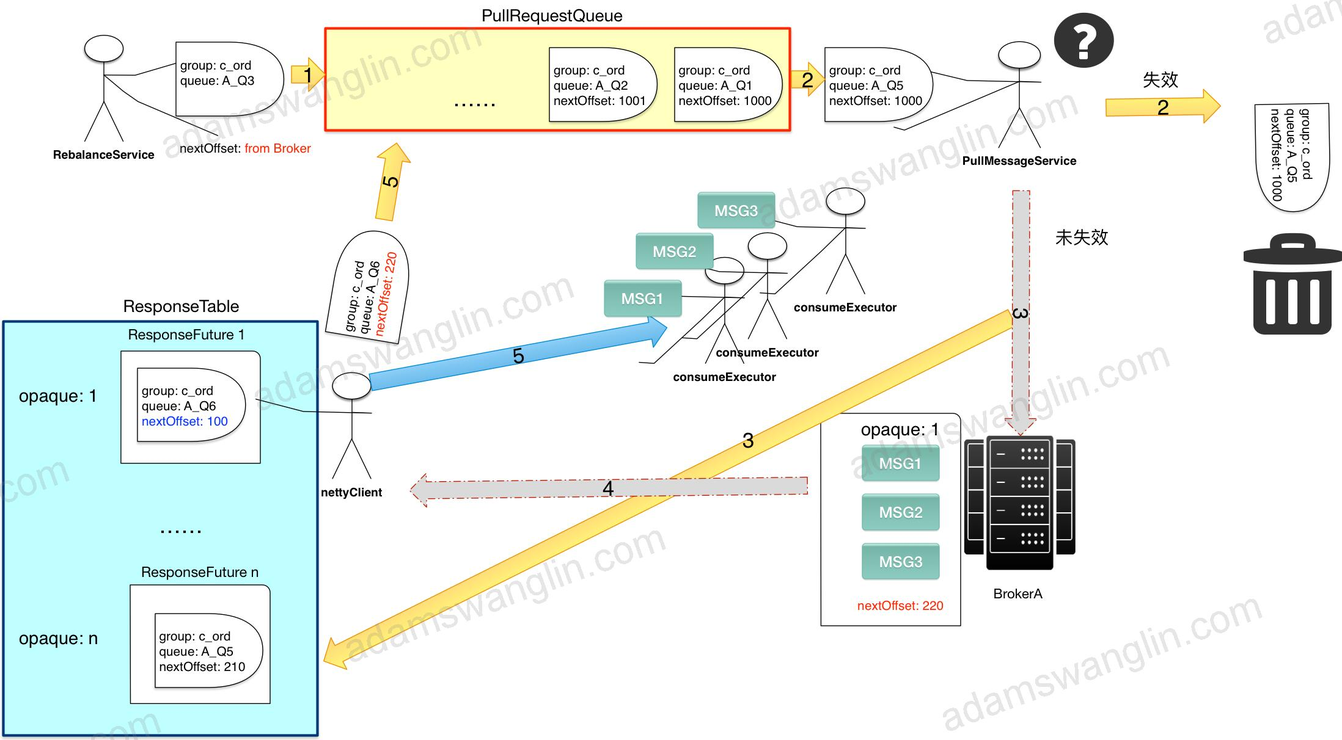
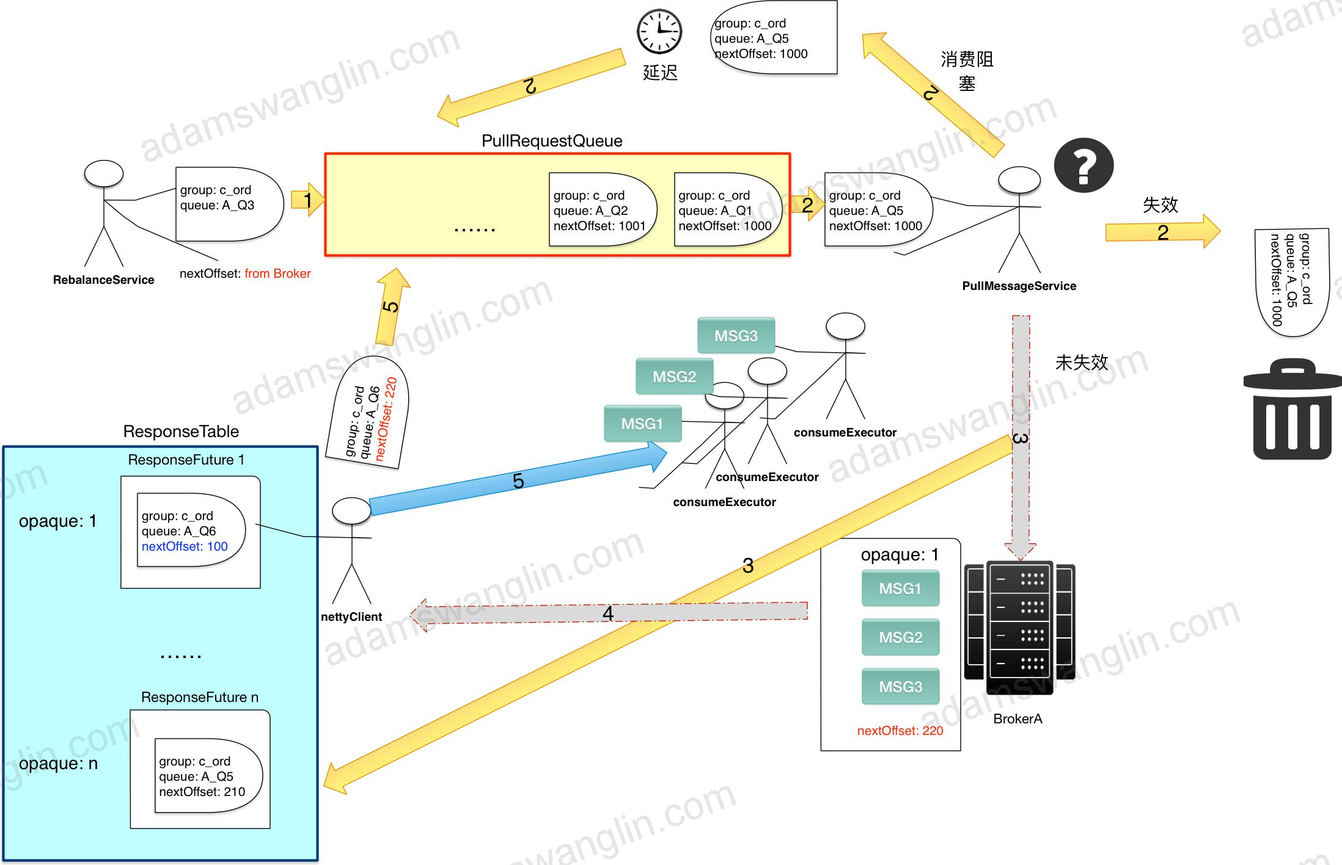
Site updated: 2018-08-27 20:26:34

diff --git a/rocketmq/rocketmq-consumer/index.html b/rocketmq/rocketmq-consumer/index.html
@@ -145,6 +145,13 @@
 
                         
                         <li>
+                            <a href="/about/">About</a>
+                        </li>
+                        
+                    
+
+                        
+                        <li>
                             <a href="/categories/">categories</a>
                         </li>
                         
@@ -153,13 +160,6 @@
                         
                         <li>
                             <a href="/archive/">Archives</a>
-                        </li>
-                        
-                    
-
-                        
-                        <li>
-                            <a href="/about/">About</a>
                         </li>
                         
                     
@@ -273,6 +273,7 @@
 <p>广播模式和集群模式只针对单个消费组；不同消费组之间的消息订阅是互不影响的。</p>
 </blockquote>
 <h3 id="offset管理">Offset管理</h3>
+<h3 id="whyoffset">WhyOffset</h3>
 <p>为了确定消息是否到达，现有消息队列实现里都有ack机制。</p>
 <p>例如在ActiveMQ里，一条消息从producer端发出之后，一旦被consumer消费，consumer会返回ACK，broker端会删除这条已消费的消息。这样每一条消息消费都要传送一个ACK消息，Broker端也要根据ACK做相应操作。</p>
 <p>RocketMQ用Offset机制来实现ACK，它类似一种批量的ACK：</p>
@@ -289,6 +290,28 @@
 </ul>
 <p>RocketMQ这样做之后提升了效率：Offset更新频率相比单条更新小，Broker端只用存储某个消费组对某个Queue的消费进度而不用在每个消息上存某个消费组是否消费了该消息。</p>
 <p>但同时也带来了一个问题：更大几率的重复消费。消费组消费了offset =2到offset=10的消息，但是offset=1的消息消费的比较慢；如果更新offset=10可能会导致offset=1的消息未成功消费Broker却认为成功，所以RocketMQ的做法是消费端更新的Offset都是未消费消息的最小offset；如果这时候消费端down机，别的消费组消费的时候会从offset=1的消息开始拉取消费，这样offset=2和offset=10的消息就会重复消费。所以RocketMQ不保证消息不重复，当然这只是造成消息重复消费的一个原因。</p>
+<h3 id="最新订阅的topic">最新订阅的TOPIC</h3>
+<p>消费组新增订阅，理论上应该是从最新的消息开始消费，历史消息理论上不会消费；但是在测试环境出现一个问题：新增的消费组消费了几个月之前的消息。为此源码上研究了下：</p>
+<ol>
+<li>消费组配置</li>
+</ol>
+<figure class="highlight plain"><table><tr><td class="gutter"><pre><span class="line">1</span><br><span class="line">2</span><br><span class="line">3</span><br></pre></td><td class="code"><pre><span class="line">CONSUME_FROM_LAST_OFFSET//从最后面开始消费</span><br><span class="line">CONSUME_FROM_FIRST_OFFSET//从头开始消费</span><br><span class="line">CONSUME_FROM_TIMESTAMP//从特定时间点开始消费</span><br></pre></td></tr></table></figure>
+<p>其中默认是<code>CONSUME_FROM_LAST_OFFSET</code>，字面意思是从最后面开始消费。</p>
+<ol start="2">
+<li>client端计算消费节点代码：</li>
+</ol>
+<figure class="highlight java"><table><tr><td class="gutter"><pre><span class="line">1</span><br><span class="line">2</span><br><span class="line">3</span><br><span class="line">4</span><br><span class="line">5</span><br><span class="line">6</span><br><span class="line">7</span><br><span class="line">8</span><br><span class="line">9</span><br><span class="line">10</span><br><span class="line">11</span><br><span class="line">12</span><br><span class="line">13</span><br><span class="line">14</span><br><span class="line">15</span><br><span class="line">16</span><br><span class="line">17</span><br><span class="line">18</span><br><span class="line">19</span><br><span class="line">20</span><br><span class="line">21</span><br><span class="line">22</span><br></pre></td><td class="code"><pre><span class="line"><span class="comment">//RebalancePushImpl.java -&gt; computePullFromWhere</span></span><br><span class="line"><span class="keyword">case</span> CONSUME_FROM_LAST_OFFSET: &#123;</span><br><span class="line">  <span class="keyword">long</span> lastOffset = offsetStore.readOffset(mq, ReadOffsetType.READ_FROM_STORE);</span><br><span class="line">  <span class="keyword">if</span> (lastOffset &gt;= <span class="number">0</span>) &#123;</span><br><span class="line">    result = lastOffset;</span><br><span class="line">  &#125;</span><br><span class="line">  <span class="comment">// First start,no offset</span></span><br><span class="line">  <span class="keyword">else</span> <span class="keyword">if</span> (-<span class="number">1</span> == lastOffset) &#123;</span><br><span class="line">    <span class="keyword">if</span> (mq.getTopic().startsWith(MixAll.RETRY_GROUP_TOPIC_PREFIX)) &#123;</span><br><span class="line">      result = <span class="number">0L</span>;</span><br><span class="line">    &#125; <span class="keyword">else</span> &#123;</span><br><span class="line">      <span class="keyword">try</span> &#123;</span><br><span class="line">        result = <span class="keyword">this</span>.mQClientFactory.getMQAdminImpl().maxOffset(mq);</span><br><span class="line">      &#125; <span class="keyword">catch</span> (MQClientException e) &#123;</span><br><span class="line">        result = -<span class="number">1</span>;</span><br><span class="line">      &#125;</span><br><span class="line">    &#125;</span><br><span class="line">  &#125; <span class="keyword">else</span> &#123;</span><br><span class="line">    result = -<span class="number">1</span>;</span><br><span class="line">  &#125;</span><br><span class="line">  <span class="keyword">break</span>;</span><br><span class="line">&#125;</span><br></pre></td></tr></table></figure>
+<p>0表示从头开始消费，-1表示从最后面开始消费。</p>
+<ol start="3">
+<li><code>offsetStore.readOffset(mq, ReadOffsetType.READ_FROM_STORE);</code></li>
+</ol>
+<figure class="highlight java"><table><tr><td class="gutter"><pre><span class="line">1</span><br><span class="line">2</span><br><span class="line">3</span><br><span class="line">4</span><br><span class="line">5</span><br><span class="line">6</span><br><span class="line">7</span><br><span class="line">8</span><br><span class="line">9</span><br><span class="line">10</span><br><span class="line">11</span><br><span class="line">12</span><br><span class="line">13</span><br><span class="line">14</span><br><span class="line">15</span><br><span class="line">16</span><br><span class="line">17</span><br></pre></td><td class="code"><pre><span class="line"><span class="keyword">case</span> READ_FROM_STORE: &#123;</span><br><span class="line">  <span class="keyword">try</span> &#123;</span><br><span class="line">    <span class="keyword">long</span> brokerOffset = <span class="keyword">this</span>.fetchConsumeOffsetFromBroker(mq);</span><br><span class="line">    AtomicLong offset = <span class="keyword">new</span> AtomicLong(brokerOffset);</span><br><span class="line">    <span class="keyword">this</span>.updateOffset(mq, offset.get(), <span class="keyword">false</span>);</span><br><span class="line">    <span class="keyword">return</span> brokerOffset;</span><br><span class="line">  &#125;</span><br><span class="line">  <span class="comment">// No offset in broker</span></span><br><span class="line">  <span class="keyword">catch</span> (MQBrokerException e) &#123;</span><br><span class="line">    <span class="keyword">return</span> -<span class="number">1</span>;</span><br><span class="line">  &#125;</span><br><span class="line">  <span class="comment">//Other exceptions</span></span><br><span class="line">  <span class="keyword">catch</span> (Exception e) &#123;</span><br><span class="line">    log.warn(<span class="string">"fetchConsumeOffsetFromBroker exception, "</span> + mq, e);</span><br><span class="line">    <span class="keyword">return</span> -<span class="number">2</span>;</span><br><span class="line">  &#125;</span><br><span class="line">&#125;</span><br></pre></td></tr></table></figure>
+<p>消费节点是从broker端取的。</p>
+<ol start="4">
+<li>Broker端处理查询offset请求代码：</li>
+</ol>
+<figure class="highlight java"><table><tr><td class="gutter"><pre><span class="line">1</span><br><span class="line">2</span><br><span class="line">3</span><br><span class="line">4</span><br><span class="line">5</span><br><span class="line">6</span><br><span class="line">7</span><br><span class="line">8</span><br><span class="line">9</span><br><span class="line">10</span><br><span class="line">11</span><br><span class="line">12</span><br><span class="line">13</span><br><span class="line">14</span><br><span class="line">15</span><br><span class="line">16</span><br><span class="line">17</span><br><span class="line">18</span><br><span class="line">19</span><br><span class="line">20</span><br><span class="line">21</span><br><span class="line">22</span><br><span class="line">23</span><br><span class="line">24</span><br><span class="line">25</span><br><span class="line">26</span><br><span class="line">27</span><br><span class="line">28</span><br></pre></td><td class="code"><pre><span class="line"><span class="comment">//ConsumerManageProcessor.queryConsumerOffset()</span></span><br><span class="line"><span class="keyword">long</span> offset =</span><br><span class="line">  <span class="keyword">this</span>.brokerController.getConsumerOffsetManager().queryOffset(</span><br><span class="line">  requestHeader.getConsumerGroup(), requestHeader.getTopic(), requestHeader.getQueueId());</span><br><span class="line"></span><br><span class="line"><span class="comment">//存在的消费组</span></span><br><span class="line"><span class="keyword">if</span> (offset &gt;= <span class="number">0</span>) &#123;</span><br><span class="line">  responseHeader.setOffset(offset);</span><br><span class="line">  response.setCode(ResponseCode.SUCCESS);</span><br><span class="line">  response.setRemark(<span class="keyword">null</span>);</span><br><span class="line">&#125; <span class="keyword">else</span> &#123;</span><br><span class="line">  <span class="comment">//消费组之前不存在</span></span><br><span class="line">  <span class="keyword">long</span> minOffset =</span><br><span class="line">    <span class="keyword">this</span>.brokerController.getMessageStore().getMinOffsetInQueue(requestHeader.getTopic(),</span><br><span class="line">                                                                requestHeader.getQueueId());</span><br><span class="line">  <span class="keyword">if</span> (minOffset &lt;= <span class="number">0</span></span><br><span class="line">      &amp;&amp; !<span class="keyword">this</span>.brokerController.getMessageStore().checkInDiskByConsumeOffset(</span><br><span class="line">        requestHeader.getTopic(), requestHeader.getQueueId(), <span class="number">0</span>)) &#123;</span><br><span class="line">    <span class="comment">//minOffsetInQueue是0并且offset=0的数据commitlog数据没有刷回磁盘还在内存里（queue新增不久/测试环境数据量少）</span></span><br><span class="line">    responseHeader.setOffset(<span class="number">0L</span>);</span><br><span class="line">    response.setCode(ResponseCode.SUCCESS);</span><br><span class="line">    response.setRemark(<span class="keyword">null</span>);</span><br><span class="line">  &#125; <span class="keyword">else</span> &#123;</span><br><span class="line">    <span class="comment">//不符合返回error怎么处理？</span></span><br><span class="line">    response.setCode(ResponseCode.QUERY_NOT_FOUND);</span><br><span class="line">    response.setRemark(<span class="string">"Not found, V3_0_6_SNAPSHOT maybe this group consumer boot first"</span>);</span><br><span class="line">  &#125;</span><br><span class="line">&#125;</span><br></pre></td></tr></table></figure>
+<p>至此，问题明了了，由于测试环境数据量小：minoffset是0，而且3个月前的数据并未刷回磁盘，所以RocketMQ从头开始消费了。</p>
 <h2 id="consumer启动">Consumer启动</h2>
 <h3 id="几个重要的类关系">几个重要的类关系</h3>
 <p><img src="clientRel.png" alt="类关系"></p>
@@ -358,6 +381,7 @@
 <ul>
 <li>如果发现有新订阅的queue，也会为每个新增订阅的queue生成一个PullRequest，放入PullRequestQueue中；其中，拉取消息的位置从nextOffset从Broker远程拉取。</li>
 <li>如果发现有queue已经不订阅了，更新offset到Broker，将ProcessQueue设为dropped并从processQueueTable中移除。</li>
+<li>如果发现消费端阻塞，会暂停一段时间后重新放回PullRequestQueue。</li>
 </ul>
 <h4 id="pullmessageservice取出pullrequest">PullMessageService取出PullRequest</h4>
 <p>PullMessageService启动一个线程不停的从PullRequestQueue里取出PullRequest。如果取出的PullRequest是已失效的（ProcessQueue是否dropped），丢弃；如果未失效，执行下面步骤。</p>
@@ -440,7 +464,7 @@
         <div id="toc" class="toc-article">
         <strong class="toc-title">Contents</strong>
         
-          <ol class="toc-nav"><li class="toc-nav-item toc-nav-level-2"><a class="toc-nav-link" href="#关于rocketmq-client包"><span class="toc-nav-number">1.</span> <span class="toc-nav-text">关于rocketmq-client包</span></a></li><li class="toc-nav-item toc-nav-level-2"><a class="toc-nav-link" href="#consumer三个重要部分"><span class="toc-nav-number">2.</span> <span class="toc-nav-text">Consumer三个重要部分</span></a><ol class="toc-nav-child"><li class="toc-nav-item toc-nav-level-3"><a class="toc-nav-link" href="#负载均衡"><span class="toc-nav-number">2.1.</span> <span class="toc-nav-text">负载均衡</span></a><ol class="toc-nav-child"><li class="toc-nav-item toc-nav-level-4"><a class="toc-nav-link" href="#负载均衡状态"><span class="toc-nav-number">2.1.1.</span> <span class="toc-nav-text">负载均衡状态</span></a></li><li class="toc-nav-item toc-nav-level-4"><a class="toc-nav-link" href="#rebalance过程"><span class="toc-nav-number">2.1.2.</span> <span class="toc-nav-text">Rebalance过程</span></a></li><li class="toc-nav-item toc-nav-level-4"><a class="toc-nav-link" href="#节点变动"><span class="toc-nav-number">2.1.3.</span> <span class="toc-nav-text">节点变动</span></a></li></ol></li><li class="toc-nav-item toc-nav-level-3"><a class="toc-nav-link" href="#消息拉取"><span class="toc-nav-number">2.2.</span> <span class="toc-nav-text">消息拉取</span></a><ol class="toc-nav-child"><li class="toc-nav-item toc-nav-level-4"><a class="toc-nav-link" href="#pull-or-push"><span class="toc-nav-number">2.2.1.</span> <span class="toc-nav-text">PULL OR PUSH</span></a></li><li class="toc-nav-item toc-nav-level-4"><a class="toc-nav-link" href="#broadcasting-or-clustering"><span class="toc-nav-number">2.2.2.</span> <span class="toc-nav-text">BROADCASTING OR CLUSTERING</span></a></li></ol></li><li class="toc-nav-item toc-nav-level-3"><a class="toc-nav-link" href="#offset管理"><span class="toc-nav-number">2.3.</span> <span class="toc-nav-text">Offset管理</span></a></li></ol></li><li class="toc-nav-item toc-nav-level-2"><a class="toc-nav-link" href="#consumer启动"><span class="toc-nav-number">3.</span> <span class="toc-nav-text">Consumer启动</span></a><ol class="toc-nav-child"><li class="toc-nav-item toc-nav-level-3"><a class="toc-nav-link" href="#几个重要的类关系"><span class="toc-nav-number">3.1.</span> <span class="toc-nav-text">几个重要的类关系</span></a><ol class="toc-nav-child"><li class="toc-nav-item toc-nav-level-4"><a class="toc-nav-link" href="#pullmessageservice"><span class="toc-nav-number">3.1.1.</span> <span class="toc-nav-text">PullMessageService</span></a></li><li class="toc-nav-item toc-nav-level-4"><a class="toc-nav-link" href="#rebalanceservice"><span class="toc-nav-number">3.1.2.</span> <span class="toc-nav-text">RebalanceService</span></a></li><li class="toc-nav-item toc-nav-level-4"><a class="toc-nav-link" href="#mqclientinstance"><span class="toc-nav-number">3.1.3.</span> <span class="toc-nav-text">MQClientInstance</span></a></li><li class="toc-nav-item toc-nav-level-4"><a class="toc-nav-link" href="#defaultmqpushconsumerimpl"><span class="toc-nav-number">3.1.4.</span> <span class="toc-nav-text">DefaultMQPushConsumerImpl</span></a></li><li class="toc-nav-item toc-nav-level-4"><a class="toc-nav-link" href="#rebalanceimpl"><span class="toc-nav-number">3.1.5.</span> <span class="toc-nav-text">RebalanceImpl</span></a></li></ol></li><li class="toc-nav-item toc-nav-level-3"><a class="toc-nav-link" href="#启动详细流程"><span class="toc-nav-number">3.2.</span> <span class="toc-nav-text">启动详细流程</span></a><ol class="toc-nav-child"><li class="toc-nav-item toc-nav-level-4"><a class="toc-nav-link" href="#启动defaultmqpushconsumerimpl"><span class="toc-nav-number">3.2.1.</span> <span class="toc-nav-text">启动DefaultMQPushConsumerImpl</span></a></li><li class="toc-nav-item toc-nav-level-4"><a class="toc-nav-link" href="#获取创建mqclientinstance"><span class="toc-nav-number">3.2.2.</span> <span class="toc-nav-text">获取/创建MQClientInstance</span></a><ol class="toc-nav-child"><li class="toc-nav-item toc-nav-level-5"><a class="toc-nav-link" href="#创建mqclientapi"><span class="toc-nav-number">3.2.2.1.</span> <span class="toc-nav-text">创建MQClientAPI</span></a></li><li class="toc-nav-item toc-nav-level-5"><a class="toc-nav-link" href="#创建pullmessageservice"><span class="toc-nav-number">3.2.2.2.</span> <span class="toc-nav-text">创建PullMessageService</span></a></li><li class="toc-nav-item toc-nav-level-5"><a class="toc-nav-link" href="#创建rebalanceservice"><span class="toc-nav-number">3.2.2.3.</span> <span class="toc-nav-text">创建RebalanceService</span></a></li></ol></li><li class="toc-nav-item toc-nav-level-4"><a class="toc-nav-link" href="#创建pullapiwrapper"><span class="toc-nav-number">3.2.3.</span> <span class="toc-nav-text">创建PullApiWrapper</span></a></li><li class="toc-nav-item toc-nav-level-4"><a class="toc-nav-link" href="#启动consumemessageconcurrentlyservice"><span class="toc-nav-number">3.2.4.</span> <span class="toc-nav-text">启动ConsumeMessageConcurrentlyService</span></a></li><li class="toc-nav-item toc-nav-level-4"><a class="toc-nav-link" href="#启动mqclientinstance"><span class="toc-nav-number">3.2.5.</span> <span class="toc-nav-text">启动MQClientInstance</span></a></li><li class="toc-nav-item toc-nav-level-4"><a class="toc-nav-link" href="#registerconsumer"><span class="toc-nav-number">3.2.6.</span> <span class="toc-nav-text">registerConsumer</span></a></li><li class="toc-nav-item toc-nav-level-4"><a class="toc-nav-link" href="#updatetopicrouteinfofromnameserver"><span class="toc-nav-number">3.2.7.</span> <span class="toc-nav-text">updateTopicRouteInfoFromNameServer</span></a></li><li class="toc-nav-item toc-nav-level-4"><a class="toc-nav-link" href="#checkclientinbroker"><span class="toc-nav-number">3.2.8.</span> <span class="toc-nav-text">checkClientInBroker</span></a></li><li class="toc-nav-item toc-nav-level-4"><a class="toc-nav-link" href="#sendheartbeattoallbrokerwithlock"><span class="toc-nav-number">3.2.9.</span> <span class="toc-nav-text">sendHeartbeatToAllBrokerWithLock</span></a></li><li class="toc-nav-item toc-nav-level-4"><a class="toc-nav-link" href="#rebalanceimmediately"><span class="toc-nav-number">3.2.10.</span> <span class="toc-nav-text">rebalanceImmediately</span></a></li></ol></li></ol></li><li class="toc-nav-item toc-nav-level-2"><a class="toc-nav-link" href="#pushconsumerrebalance"><span class="toc-nav-number">4.</span> <span class="toc-nav-text">PushConsumerRebalance</span></a></li><li class="toc-nav-item toc-nav-level-2"><a class="toc-nav-link" href="#consumer拉取消息"><span class="toc-nav-number">5.</span> <span class="toc-nav-text">Consumer拉取消息</span></a><ol class="toc-nav-child"><li class="toc-nav-item toc-nav-level-3"><a class="toc-nav-link" href="#拉取消息的流程示意"><span class="toc-nav-number">5.1.</span> <span class="toc-nav-text">拉取消息的流程示意</span></a><ol class="toc-nav-child"><li class="toc-nav-item toc-nav-level-4"><a class="toc-nav-link" href="#rebalanceservice初始化pullrequest"><span class="toc-nav-number">5.1.1.</span> <span class="toc-nav-text">RebalanceService初始化PullRequest</span></a><ol class="toc-nav-child"><li class="toc-nav-item toc-nav-level-5"><a class="toc-nav-link" href="#client启动"><span class="toc-nav-number">5.1.1.1.</span> <span class="toc-nav-text">client启动</span></a></li><li class="toc-nav-item toc-nav-level-5"><a class="toc-nav-link" href="#定时rebalance"><span class="toc-nav-number">5.1.1.2.</span> <span class="toc-nav-text">定时Rebalance</span></a></li></ol></li><li class="toc-nav-item toc-nav-level-4"><a class="toc-nav-link" href="#pullmessageservice取出pullrequest"><span class="toc-nav-number">5.1.2.</span> <span class="toc-nav-text">PullMessageService取出PullRequest</span></a></li><li class="toc-nav-item toc-nav-level-4"><a class="toc-nav-link" href="#pullmessageservice发送异步请求"><span class="toc-nav-number">5.1.3.</span> <span class="toc-nav-text">PullMessageService发送异步请求</span></a></li><li class="toc-nav-item toc-nav-level-4"><a class="toc-nav-link" href="#broker发送异步响应"><span class="toc-nav-number">5.1.4.</span> <span class="toc-nav-text">Broker发送异步响应</span></a></li><li class="toc-nav-item toc-nav-level-4"><a class="toc-nav-link" href="#nettyclient处理响应"><span class="toc-nav-number">5.1.5.</span> <span class="toc-nav-text">NettyClient处理响应</span></a></li></ol></li><li class="toc-nav-item toc-nav-level-3"><a class="toc-nav-link" href="#拉取消息的详细流程"><span class="toc-nav-number">5.2.</span> <span class="toc-nav-text">拉取消息的详细流程</span></a></li><li class="toc-nav-item toc-nav-level-3"><a class="toc-nav-link" href="#几点说明"><span class="toc-nav-number">5.3.</span> <span class="toc-nav-text">几点说明</span></a></li></ol></li><li class="toc-nav-item toc-nav-level-2"><a class="toc-nav-link" href="#consumer关闭"><span class="toc-nav-number">6.</span> <span class="toc-nav-text">Consumer关闭</span></a></li></ol>
+          <ol class="toc-nav"><li class="toc-nav-item toc-nav-level-2"><a class="toc-nav-link" href="#关于rocketmq-client包"><span class="toc-nav-number">1.</span> <span class="toc-nav-text">关于rocketmq-client包</span></a></li><li class="toc-nav-item toc-nav-level-2"><a class="toc-nav-link" href="#consumer三个重要部分"><span class="toc-nav-number">2.</span> <span class="toc-nav-text">Consumer三个重要部分</span></a><ol class="toc-nav-child"><li class="toc-nav-item toc-nav-level-3"><a class="toc-nav-link" href="#负载均衡"><span class="toc-nav-number">2.1.</span> <span class="toc-nav-text">负载均衡</span></a><ol class="toc-nav-child"><li class="toc-nav-item toc-nav-level-4"><a class="toc-nav-link" href="#负载均衡状态"><span class="toc-nav-number">2.1.1.</span> <span class="toc-nav-text">负载均衡状态</span></a></li><li class="toc-nav-item toc-nav-level-4"><a class="toc-nav-link" href="#rebalance过程"><span class="toc-nav-number">2.1.2.</span> <span class="toc-nav-text">Rebalance过程</span></a></li><li class="toc-nav-item toc-nav-level-4"><a class="toc-nav-link" href="#节点变动"><span class="toc-nav-number">2.1.3.</span> <span class="toc-nav-text">节点变动</span></a></li></ol></li><li class="toc-nav-item toc-nav-level-3"><a class="toc-nav-link" href="#消息拉取"><span class="toc-nav-number">2.2.</span> <span class="toc-nav-text">消息拉取</span></a><ol class="toc-nav-child"><li class="toc-nav-item toc-nav-level-4"><a class="toc-nav-link" href="#pull-or-push"><span class="toc-nav-number">2.2.1.</span> <span class="toc-nav-text">PULL OR PUSH</span></a></li><li class="toc-nav-item toc-nav-level-4"><a class="toc-nav-link" href="#broadcasting-or-clustering"><span class="toc-nav-number">2.2.2.</span> <span class="toc-nav-text">BROADCASTING OR CLUSTERING</span></a></li></ol></li><li class="toc-nav-item toc-nav-level-3"><a class="toc-nav-link" href="#offset管理"><span class="toc-nav-number">2.3.</span> <span class="toc-nav-text">Offset管理</span></a></li><li class="toc-nav-item toc-nav-level-3"><a class="toc-nav-link" href="#whyoffset"><span class="toc-nav-number">2.4.</span> <span class="toc-nav-text">WhyOffset</span></a></li><li class="toc-nav-item toc-nav-level-3"><a class="toc-nav-link" href="#最新订阅的topic"><span class="toc-nav-number">2.5.</span> <span class="toc-nav-text">最新订阅的TOPIC</span></a></li></ol></li><li class="toc-nav-item toc-nav-level-2"><a class="toc-nav-link" href="#consumer启动"><span class="toc-nav-number">3.</span> <span class="toc-nav-text">Consumer启动</span></a><ol class="toc-nav-child"><li class="toc-nav-item toc-nav-level-3"><a class="toc-nav-link" href="#几个重要的类关系"><span class="toc-nav-number">3.1.</span> <span class="toc-nav-text">几个重要的类关系</span></a><ol class="toc-nav-child"><li class="toc-nav-item toc-nav-level-4"><a class="toc-nav-link" href="#pullmessageservice"><span class="toc-nav-number">3.1.1.</span> <span class="toc-nav-text">PullMessageService</span></a></li><li class="toc-nav-item toc-nav-level-4"><a class="toc-nav-link" href="#rebalanceservice"><span class="toc-nav-number">3.1.2.</span> <span class="toc-nav-text">RebalanceService</span></a></li><li class="toc-nav-item toc-nav-level-4"><a class="toc-nav-link" href="#mqclientinstance"><span class="toc-nav-number">3.1.3.</span> <span class="toc-nav-text">MQClientInstance</span></a></li><li class="toc-nav-item toc-nav-level-4"><a class="toc-nav-link" href="#defaultmqpushconsumerimpl"><span class="toc-nav-number">3.1.4.</span> <span class="toc-nav-text">DefaultMQPushConsumerImpl</span></a></li><li class="toc-nav-item toc-nav-level-4"><a class="toc-nav-link" href="#rebalanceimpl"><span class="toc-nav-number">3.1.5.</span> <span class="toc-nav-text">RebalanceImpl</span></a></li></ol></li><li class="toc-nav-item toc-nav-level-3"><a class="toc-nav-link" href="#启动详细流程"><span class="toc-nav-number">3.2.</span> <span class="toc-nav-text">启动详细流程</span></a><ol class="toc-nav-child"><li class="toc-nav-item toc-nav-level-4"><a class="toc-nav-link" href="#启动defaultmqpushconsumerimpl"><span class="toc-nav-number">3.2.1.</span> <span class="toc-nav-text">启动DefaultMQPushConsumerImpl</span></a></li><li class="toc-nav-item toc-nav-level-4"><a class="toc-nav-link" href="#获取创建mqclientinstance"><span class="toc-nav-number">3.2.2.</span> <span class="toc-nav-text">获取/创建MQClientInstance</span></a><ol class="toc-nav-child"><li class="toc-nav-item toc-nav-level-5"><a class="toc-nav-link" href="#创建mqclientapi"><span class="toc-nav-number">3.2.2.1.</span> <span class="toc-nav-text">创建MQClientAPI</span></a></li><li class="toc-nav-item toc-nav-level-5"><a class="toc-nav-link" href="#创建pullmessageservice"><span class="toc-nav-number">3.2.2.2.</span> <span class="toc-nav-text">创建PullMessageService</span></a></li><li class="toc-nav-item toc-nav-level-5"><a class="toc-nav-link" href="#创建rebalanceservice"><span class="toc-nav-number">3.2.2.3.</span> <span class="toc-nav-text">创建RebalanceService</span></a></li></ol></li><li class="toc-nav-item toc-nav-level-4"><a class="toc-nav-link" href="#创建pullapiwrapper"><span class="toc-nav-number">3.2.3.</span> <span class="toc-nav-text">创建PullApiWrapper</span></a></li><li class="toc-nav-item toc-nav-level-4"><a class="toc-nav-link" href="#启动consumemessageconcurrentlyservice"><span class="toc-nav-number">3.2.4.</span> <span class="toc-nav-text">启动ConsumeMessageConcurrentlyService</span></a></li><li class="toc-nav-item toc-nav-level-4"><a class="toc-nav-link" href="#启动mqclientinstance"><span class="toc-nav-number">3.2.5.</span> <span class="toc-nav-text">启动MQClientInstance</span></a></li><li class="toc-nav-item toc-nav-level-4"><a class="toc-nav-link" href="#registerconsumer"><span class="toc-nav-number">3.2.6.</span> <span class="toc-nav-text">registerConsumer</span></a></li><li class="toc-nav-item toc-nav-level-4"><a class="toc-nav-link" href="#updatetopicrouteinfofromnameserver"><span class="toc-nav-number">3.2.7.</span> <span class="toc-nav-text">updateTopicRouteInfoFromNameServer</span></a></li><li class="toc-nav-item toc-nav-level-4"><a class="toc-nav-link" href="#checkclientinbroker"><span class="toc-nav-number">3.2.8.</span> <span class="toc-nav-text">checkClientInBroker</span></a></li><li class="toc-nav-item toc-nav-level-4"><a class="toc-nav-link" href="#sendheartbeattoallbrokerwithlock"><span class="toc-nav-number">3.2.9.</span> <span class="toc-nav-text">sendHeartbeatToAllBrokerWithLock</span></a></li><li class="toc-nav-item toc-nav-level-4"><a class="toc-nav-link" href="#rebalanceimmediately"><span class="toc-nav-number">3.2.10.</span> <span class="toc-nav-text">rebalanceImmediately</span></a></li></ol></li></ol></li><li class="toc-nav-item toc-nav-level-2"><a class="toc-nav-link" href="#pushconsumerrebalance"><span class="toc-nav-number">4.</span> <span class="toc-nav-text">PushConsumerRebalance</span></a></li><li class="toc-nav-item toc-nav-level-2"><a class="toc-nav-link" href="#consumer拉取消息"><span class="toc-nav-number">5.</span> <span class="toc-nav-text">Consumer拉取消息</span></a><ol class="toc-nav-child"><li class="toc-nav-item toc-nav-level-3"><a class="toc-nav-link" href="#拉取消息的流程示意"><span class="toc-nav-number">5.1.</span> <span class="toc-nav-text">拉取消息的流程示意</span></a><ol class="toc-nav-child"><li class="toc-nav-item toc-nav-level-4"><a class="toc-nav-link" href="#rebalanceservice初始化pullrequest"><span class="toc-nav-number">5.1.1.</span> <span class="toc-nav-text">RebalanceService初始化PullRequest</span></a><ol class="toc-nav-child"><li class="toc-nav-item toc-nav-level-5"><a class="toc-nav-link" href="#client启动"><span class="toc-nav-number">5.1.1.1.</span> <span class="toc-nav-text">client启动</span></a></li><li class="toc-nav-item toc-nav-level-5"><a class="toc-nav-link" href="#定时rebalance"><span class="toc-nav-number">5.1.1.2.</span> <span class="toc-nav-text">定时Rebalance</span></a></li></ol></li><li class="toc-nav-item toc-nav-level-4"><a class="toc-nav-link" href="#pullmessageservice取出pullrequest"><span class="toc-nav-number">5.1.2.</span> <span class="toc-nav-text">PullMessageService取出PullRequest</span></a></li><li class="toc-nav-item toc-nav-level-4"><a class="toc-nav-link" href="#pullmessageservice发送异步请求"><span class="toc-nav-number">5.1.3.</span> <span class="toc-nav-text">PullMessageService发送异步请求</span></a></li><li class="toc-nav-item toc-nav-level-4"><a class="toc-nav-link" href="#broker发送异步响应"><span class="toc-nav-number">5.1.4.</span> <span class="toc-nav-text">Broker发送异步响应</span></a></li><li class="toc-nav-item toc-nav-level-4"><a class="toc-nav-link" href="#nettyclient处理响应"><span class="toc-nav-number">5.1.5.</span> <span class="toc-nav-text">NettyClient处理响应</span></a></li></ol></li><li class="toc-nav-item toc-nav-level-3"><a class="toc-nav-link" href="#拉取消息的详细流程"><span class="toc-nav-number">5.2.</span> <span class="toc-nav-text">拉取消息的详细流程</span></a></li><li class="toc-nav-item toc-nav-level-3"><a class="toc-nav-link" href="#几点说明"><span class="toc-nav-number">5.3.</span> <span class="toc-nav-text">几点说明</span></a></li></ol></li><li class="toc-nav-item toc-nav-level-2"><a class="toc-nav-link" href="#consumer关闭"><span class="toc-nav-number">6.</span> <span class="toc-nav-text">Consumer关闭</span></a></li></ol>
         
         </div>
       </aside>

diff --git a/2018/04/27/mysql-transaction/index.html b/2018/04/27/mysql-transaction/index.html
@@ -147,6 +147,13 @@
 
                         
                         <li>
+                            <a href="/about/">About</a>
+                        </li>
+                        
+                    
+
+                        
+                        <li>
                             <a href="/categories/">categories</a>
                         </li>
                         
@@ -155,13 +162,6 @@
                         
                         <li>
                             <a href="/archive/">Archives</a>
-                        </li>
-                        
-                    
-
-                        
-                        <li>
-                            <a href="/about/">About</a>
                         </li>
                         
                     

diff --git a/2018/04/28/mysql-lock/index.html b/2018/04/28/mysql-lock/index.html
@@ -147,6 +147,13 @@
 
                         
                         <li>
+                            <a href="/about/">About</a>
+                        </li>
+                        
+                    
+
+                        
+                        <li>
                             <a href="/categories/">categories</a>
                         </li>
                         
@@ -155,13 +162,6 @@
                         
                         <li>
                             <a href="/archive/">Archives</a>
-                        </li>
-                        
-                    
-
-                        
-                        <li>
-                            <a href="/about/">About</a>
                         </li>
                         
                     

diff --git a/404.html b/404.html
@@ -137,6 +137,13 @@
 
                         
                         <li>
+                            <a href="/about/">About</a>
+                        </li>
+                        
+                    
+
+                        
+                        <li>
                             <a href="/categories/">categories</a>
                         </li>
                         
@@ -145,13 +152,6 @@
                         
                         <li>
                             <a href="/archive/">Archives</a>
-                        </li>
-                        
-                    
-
-                        
-                        <li>
-                            <a href="/about/">About</a>
                         </li>
                         
                     

diff --git a/about/index.html b/about/index.html
@@ -137,6 +137,13 @@
 
                         
                         <li>
+                            <a href="/about/">About</a>
+                        </li>
+                        
+                    
+
+                        
+                        <li>
                             <a href="/categories/">categories</a>
                         </li>
                         
@@ -145,13 +152,6 @@
                         
                         <li>
                             <a href="/archive/">Archives</a>
-                        </li>
-                        
-                    
-
-                        
-                        <li>
-                            <a href="/about/">About</a>
                         </li>
                         
                     

diff --git a/archive/index.html b/archive/index.html
@@ -137,6 +137,13 @@
 
                         
                         <li>
+                            <a href="/about/">About</a>
+                        </li>
+                        
+                    
+
+                        
+                        <li>
                             <a href="/categories/">categories</a>
                         </li>
                         
@@ -145,13 +152,6 @@
                         
                         <li>
                             <a href="/archive/">Archives</a>
-                        </li>
-                        
-                    
-
-                        
-                        <li>
-                            <a href="/about/">About</a>
                         </li>
                         
                     

diff --git a/archives/2017/04/index.html b/archives/2017/04/index.html
@@ -137,6 +137,13 @@
 
                         
                         <li>
+                            <a href="/about/">About</a>
+                        </li>
+                        
+                    
+
+                        
+                        <li>
                             <a href="/categories/">categories</a>
                         </li>
                         
@@ -145,13 +152,6 @@
                         
                         <li>
                             <a href="/archive/">Archives</a>
-                        </li>
-                        
-                    
-
-                        
-                        <li>
-                            <a href="/about/">About</a>
                         </li>
                         
                     

diff --git a/archives/2017/index.html b/archives/2017/index.html
@@ -137,6 +137,13 @@
 
                         
                         <li>
+                            <a href="/about/">About</a>
+                        </li>
+                        
+                    
+
+                        
+                        <li>
                             <a href="/categories/">categories</a>
                         </li>
                         
@@ -145,13 +152,6 @@
                         
                         <li>
                             <a href="/archive/">Archives</a>
-                        </li>
-                        
-                    
-
-                        
-                        <li>
-                            <a href="/about/">About</a>
                         </li>
                         
                     

diff --git a/archives/2018/04/index.html b/archives/2018/04/index.html
@@ -137,6 +137,13 @@
 
                         
                         <li>
+                            <a href="/about/">About</a>
+                        </li>
+                        
+                    
+
+                        
+                        <li>
                             <a href="/categories/">categories</a>
                         </li>
                         
@@ -145,13 +152,6 @@
                         
                         <li>
                             <a href="/archive/">Archives</a>
-                        </li>
-                        
-                    
-
-                        
-                        <li>
-                            <a href="/about/">About</a>
                         </li>
                         
                     

diff --git a/archives/2018/05/index.html b/archives/2018/05/index.html
@@ -137,6 +137,13 @@
 
                         
                         <li>
+                            <a href="/about/">About</a>
+                        </li>
+                        
+                    
+
+                        
+                        <li>
                             <a href="/categories/">categories</a>
                         </li>
                         
@@ -145,13 +152,6 @@
                         
                         <li>
                             <a href="/archive/">Archives</a>
-                        </li>
-                        
-                    
-
-                        
-                        <li>
-                            <a href="/about/">About</a>
                         </li>
                         
                     

diff --git a/archives/2018/index.html b/archives/2018/index.html
@@ -137,6 +137,13 @@
 
                         
                         <li>
+                            <a href="/about/">About</a>
+                        </li>
+                        
+                    
+
+                        
+                        <li>
                             <a href="/categories/">categories</a>
                         </li>
                         
@@ -145,13 +152,6 @@
                         
                         <li>
                             <a href="/archive/">Archives</a>
-                        </li>
-                        
-                    
-
-                        
-                        <li>
-                            <a href="/about/">About</a>
                         </li>
                         
                     

diff --git a/archives/index.html b/archives/index.html
@@ -137,6 +137,13 @@
 
                         
                         <li>
+                            <a href="/about/">About</a>
+                        </li>
+                        
+                    
+
+                        
+                        <li>
                             <a href="/categories/">categories</a>
                         </li>
                         
@@ -145,13 +152,6 @@
                         
                         <li>
                             <a href="/archive/">Archives</a>
-                        </li>
-                        
-                    
-
-                        
-                        <li>
-                            <a href="/about/">About</a>
                         </li>
                         
                     
